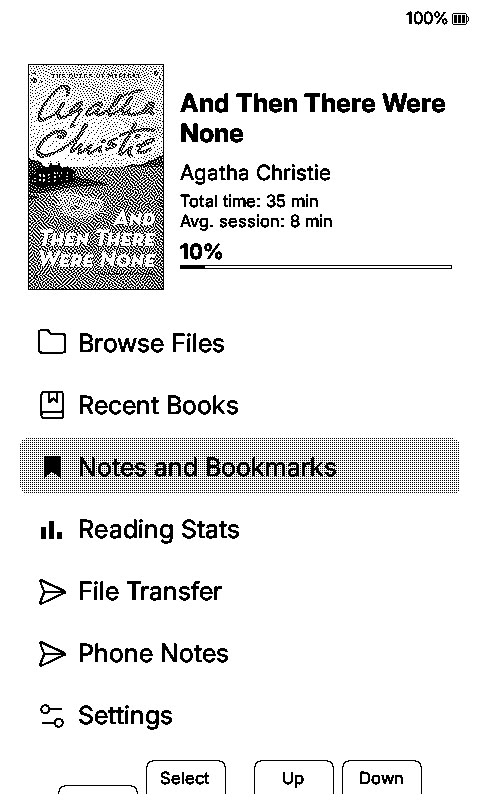
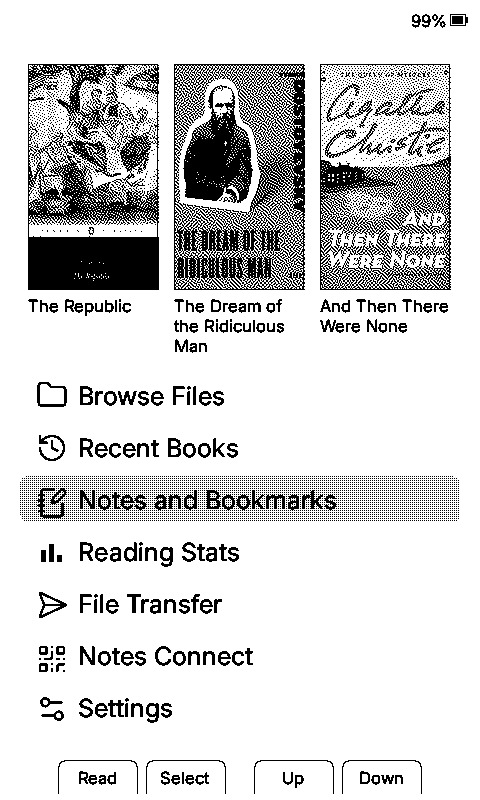
docs: refresh screenshots for v1.2.0-rc3
New captures of the five device screens that have changed since the last
set -- the home menu, Notes and Bookmarks, the highlights list, the
detail view and the keyboard. The tag picker is unchanged, so its old
image stays.

Two screens added that the previous set did not show: the tag filter with
a tag applied, and Notes Connect in the browser. Between them they cover
the two things this fork exists for that were previously described in
text only.

Same format throughout: 480x800 device captures as JPEG, at higher
quality than before since these are 1-bit line art and JPEG rings badly
on it at low settings. The browser capture spans two cells in the last
row rather than being squeezed into a portrait-sized column.

Also refreshed the captions: the Notes and Bookmarks screen now counts
notes as well as highlights and bookmarks, and the list rows now show a
tag and note under each highlight, neither of which the old wording said.

diff --git a/README.md b/README.md
@@ -37,14 +37,18 @@ Highlight a passage, write a note on device and/or tag it. Then open a page in a
 </td>
 <td align="center" width="33%">
 <img src="./docs/images/crossnotes/notes-and-bookmarks.jpg" width="220"><br>
-<sub>Notes and Bookmarks — every saved book</sub>
+<sub>Every book with highlights, notes or bookmarks</sub>
 </td>
 <td align="center" width="33%">
 <img src="./docs/images/crossnotes/clippings-list.jpg" width="220"><br>
-<sub>Clippings list with tags and note previews</sub>
+<sub>Highlights with their tag and note beneath</sub>
 </td>
 </tr>
 <tr>
+<td align="center" width="33%">
+<img src="./docs/images/crossnotes/tag-filter.jpg" width="220"><br>
+<sub>Filtered to a single tag</sub>
+</td>
 <td align="center" width="33%">
 <img src="./docs/images/crossnotes/tag-picker.jpg" width="220"><br>
 <sub>Tag picker after saving a highlight</sub>
@@ -53,9 +57,15 @@ Highlight a passage, write a note on device and/or tag it. Then open a page in a
 <img src="./docs/images/crossnotes/write-note-keyboard.jpg" width="220"><br>
 <sub>Writing a note with the built-in keyboard</sub>
 </td>
+</tr>
+<tr>
 <td align="center" width="33%">
 <img src="./docs/images/crossnotes/clipping-detail-note.jpg" width="220"><br>
 <sub>Highlight detail with its note attached</sub>
+</td>
+<td align="center" colspan="2">
+<img src="./docs/images/crossnotes/highlights-web.jpg" width="460"><br>
+<sub>Notes Connect in the browser — read, tag, and write notes from any device</sub>
 </td>
 </tr>
 </table>
